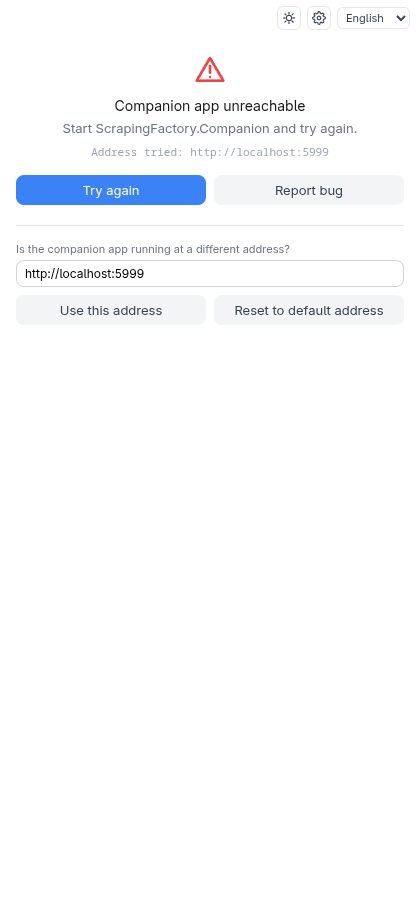
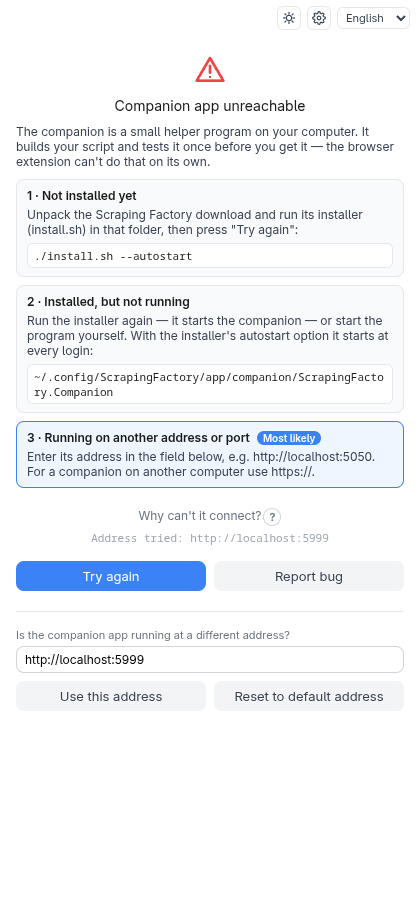
docs(ui): document the companion guidance and refresh the troubleshooting page (#406)

diff --git a/CLAUDE.md b/CLAUDE.md
@@ -76,6 +76,7 @@ docs/
 - **Visual design refresh: design tokens, icons, interaction consistency** (Issue #139): a purely visual pass over `popup/popup.html`'s CSS — no information-architecture/flow change. A `:root` block of CSS custom properties (`--color-*`, `--radius-*`, `--shadow-*`/`--overlay-*`, `--focus-ring`, `--transition-fast`) replaces ~90 one-off hex/rgba/border-radius literals that had been scattered through the file with no shared source of truth, migrated value-for-value (verified pixel-identical via before/after screenshots) with one deliberate exception: the success-icon's `#22c55e` and the pre-existing `#16a34a` (already used for robots-allowed/toast-info) are two near-identical greens with no reason to differ, so they now share one `--color-success` token. This is also the direct prerequisite for a future dark-mode pass — a `[data-theme="dark"]` block would only need to redefine these tokens, not every rule using them. The two literal Unicode status glyphs (`⚠`/`✓`) are now small hand-drawn inline SVGs (no icon font/CDN, per the "free plugin" principle), sized/colored via the token set. The three independent tree-toggle implementations (`container-tree-ui.js`'s group tree, `api-config-ui.js`'s API tree, `popup.js`'s DOM tree view) — each of which swapped between two different Unicode glyphs (`▸`/`▾`) via `textContent` on every click — now each insert one static chevron SVG per row and toggle a `.collapsed` class instead, with the actual rotation (`transform: rotate(-90deg)`) handled once in shared CSS rather than duplicated per-file click-handler logic; the DOM tree view keeps its "starts collapsed" default (unlike the group/api trees, which start expanded) by applying `.collapsed` at build time. Finally, hover/active/transition treatment is unified: the shared `button{}` base rule now transitions multiple properties via `--transition-fast` (was: `background .1s` only) and every button gets a uniform `:active` press feedback (`translateY(1px)`) — `.mode-btn`/`.btn-toggle` inherit both for free since they're plain `<button>`s; inactive `.mode-btn` tabs and the three tree-row types (`.group-tree-row`/`.api-tree-row`/`.body-tree-row`, previously with zero interactive feedback) gained a hover state; text inputs/textareas/selects share one focus-transition rule. Deliberately out of scope: turning "Remove"/"+ Add"-style text-label buttons into icon+label, which would be a much larger pass and risks breaking existing `.textContent` assertions in `popup.test.js`.
 - **Dark mode + visual modernization pass** (Issue #140): builds directly on #139's token groundwork — every color/overlay/shadow token now lives in a light/dark pair instead of one fixed set. `:root` carries the light defaults; `@media (prefers-color-scheme: dark) { :root:not([data-theme]) { ... } }` redefines them automatically when the OS prefers dark and the user hasn't made an explicit choice; an explicit `html[data-theme="light"|"dark"]` override (see `shared/theme.js` below) always wins over both, and needs no rule of its own for "light" specifically since the media query already stays out of its way when the attribute is present. `color-scheme: light dark` on `:root` (narrowed to a single value by the two explicit-override rules) gives native form controls — checkbox/select-popup chrome, and any `input`/`textarea` with no explicit background of its own, like `#input-additional-urls` — a correct dark rendering for free. **Contrast audit** (called for by the issue): every status color already read from #139's token set, so brightening them for dark backgrounds was enough — no per-rule changes needed for `.robots-txt-allowed`/`.preview-summary.warn`/toast variants/etc. One real bug the audit *did* catch: several "white text on a colored background" rules (`.btn-primary`, `.toast`, picked chips) used `var(--color-surface)` for that text color — correct by coincidence in light mode (surface happens to be white) but flips to near-black in dark mode. A new theme-agnostic `--color-on-accent` token (always a light color regardless of theme, since the accent backgrounds themselves stay readable with light text in both) replaces `--color-surface` at every one of those call sites. **Manual toggle**: a new `extension/shared/theme.js` mirrors `i18n.js`'s `getStoredLanguage`/`setLanguage` pattern exactly (`chrome.storage.local`), with one difference — "follow the OS" is a real third state, represented as `null` (not a storable `'system'` string) throughout the module. `#theme-toggle` next to the language selector cycles system → light → dark → system on click (`SFTheme.cycleTheme`), a single compact icon button chosen over a dropdown for lack of panel-width room next to the existing language `<select>`. **Modernization** (requested alongside the issue, not part of its own scope): the radius scale is nudged up again (6/8/10/14, from #139's 4/6/8/10) for a softer feel; `--transition-fast` switches from a plain linear ease to the "standard" `cubic-bezier(0.4, 0, 0.2, 1)` easing curve; a new `--glow-primary` gives `.btn-primary:hover` a soft colored glow instead of a flat color swap; the old flat `--shadow-sm`/`--shadow-md` pair is replaced by a graded `--elevation-1/2/3` scale (layered shadow pairs) for more "floating" depth on the mode-toggle active pill and modal; the `.mode-toggle`/`.mode-btn` segmented controls (mode/engine/notify-method — three markup instances) gain an animated sliding `.mode-toggle-thumb` behind the active button instead of each button just recoloring itself in place, positioned via `popup.js`'s `syncModeToggleThumbs()` (JS, not CSS-only, since it depends on the active button's actual rendered offset/width) — called at the end of every `render()` and on a rAF-throttled `window.resize` listener, since the side panel is user-resizable; `.engine-section`/`.output-settings` get an outlined "card" (border only, no fill, since their own children already use `--color-surface-subtle`) to break up the idle screen's otherwise undifferentiated list of settings — the mode-specific sections are deliberately left unboxed since they're the primary content being edited and already carry their own row-level visual treatment; every scrollable container from #138/#122 gets a slim `::-webkit-scrollbar` (Chromium-only, matching the extension's own supported browser range). Deliberately out of scope, same reasoning as #139: turning text-label buttons into icon+label.
 - **esbuild bundling; "Load unpacked" points at `extension/dist/`** (Issue #389): the extension is no longer loaded straight from its source folder. `extension/build.js` (`npm run build`, `npm run build:watch`, plus `--channel release` and `--outdir <dir>` for `install/build-bundle.sh`) bundles four entry points — `popup/popup.js` (side panel), `content/content-script.js` (isolated world, every frame; `shared/logger.js` is bundled in, so the manifest no longer lists it), `content/api-capture.js` (the `"world": "MAIN"` recorder, `document_start`) and `background/service-worker.js` — as `iife` for Chromium 114+ into `dist/<same relative path>`, source maps beside them, and copies the static files (`manifest.json`, `popup/popup.html`, `popup/popup.css`, `popup/screens/*.html`) to the same relative paths, so `chrome.runtime.getURL('popup/screens/idle.html')` and the manifest paths are unchanged. `dist/` is git-ignored; Jest, `tsc` and the e2e harness treat it as build output (`modulePathIgnorePatterns`, `exclude`). **What the bundler replaced:** every module used to carry dual-environment boilerplate so the same file ran as a classic `<script>` (shared global scope) and under Jest (CommonJS) — an IIFE assigning one `self.SFXxx` global, a `typeof require !== 'undefined' ? require(...) : self.SFXxx` shim per import, a `typeof module`/`self` export footer, a 56-line `<script>` list in `popup.html`, and `classic-script-loading.test.js` guarding the top-level-name-collision bug class that came with it. All of that is gone: a module is now plain CommonJS (`const { x } = require('./y')`, `module.exports = { ... }`), `popup.html` has one `<script src="popup.js">`, and Jest keeps running the sources directly. No behavior change. **The three explicit replacements for what used to be environment sniffing:** `i18n/i18n.js` `require`s the three dictionaries statically (inlined into the popup bundle, loaded identically in Jest — no fetch, no `chrome.runtime.getURL`); `popup.js`'s `loadScreenPartial` and `content/api-capture.js`'s fetch/XHR patching check `process.env.NODE_ENV === 'test'` (Jest sets it, the build `define`s it to `"production"`, so the code is dead-branch-free in the bundle and `process` never exists at runtime — never reference `process` for anything else). **Release channel** (Issue #352): `shared/build-config.js` derives `CHANNEL` from `process.env.SF_CHANNEL`, which `build.js` always `define`s (`"development"` by default, `"release"` for `--channel release`); `install/build-bundle.sh` builds the release channel into a temp dir (`npm ci` + `node build.js --channel release --outdir …`, then ships the bundle without `.map` files) instead of `sed`-rewriting a source line, and `build.js` fails the build if a release build did not actually produce the release constant. `shared/companion-url-policy.test.js` builds the real module with each channel to prove it. **Consequences for contributors:** after editing extension code run `npm run build` (or leave `build:watch` running) and reload the extension at `chrome://extensions`; there are no page-level globals any more (`self.SFXxx`, `SFTheme`, a popup's `_state`) — a real-browser check that needs to reach into the popup must go through the DOM, `chrome.storage` or Playwright routes, not `page.evaluate(() => SFFoo…)`; a new module needs no `popup.html` edit, just a `require`. TypeScript conversion stays a separate, file-by-file follow-up.
+- **Companion-unreachable guidance** (Issue #406): the `COMPANION_ERROR` screen used to say only "Start ScrapingFactory.Companion and try again" — nothing about what the companion is, where it comes from or what to do for which situation (UX audit finding 19). It now has two forms, switched by whether a companion has *ever* answered on this browser: until the first successful health check (flag `companionReached`, `chrome.storage.local`, written by `checkCompanion` via `markCompanionReached()`, loaded at the start of every check) the **long form** (`#error-guidance-long`) explains the companion in a sentence and lists the three situations — "1 · Not installed yet" (the installer name and exact command for this OS: `install.sh --autostart` / `powershell … install.ps1 -Autostart`, the same as `install/INSTALL.md`), "2 · Installed, but not running" (run the installer again — it starts the companion — or start the program from where the installers put it: `~/.config/ScrapingFactory/app/companion/ScrapingFactory.Companion`, `~/Library/Application Support/…` on macOS, `%APPDATA%\ScrapingFactory\app\companion\ScrapingFactory.Companion.exe`), "3 · Running on another address or port" (the existing address field; `https://` for another computer); afterwards only the one-line hint (`#error-hint-short`). "Once" is read as *until the companion has been reached*, not "only the first time the screen is shown", so someone who closes and reopens the panel before installing keeps the help. Both forms keep a **"Why can't it connect?"** `help.companionError.causes` popover (a #396 help host) listing the four usual causes with their fix (not started, other port/computer, https needed — the #352 address policy —, a shared companion may want an access key); the help component gained one rule for it: a `\n` in a help text starts a new line (`white-space: pre-line`). **Most likely**: `likelySituations({url, defaultUrl, errorMessage})` marks situation 3 for a custom address or an HTTP error answer (something other than a healthy companion is there) and 1+2 for the default address that didn't answer at all; `checkCompanion` keeps the last failure for it (`getCompanionFailure()`, cleared on success). Texts carrying a parameter (the installer name) are set by script, not `data-i18n` (`applyStaticTranslations` passes no parameters); the OS comes from `navigator.userAgent` (`detectPlatform`, anything but Windows/macOS gets the shell instructions). New modules per Architecture Decision #12/#13: `popup/companion-guidance.js` (pure logic + the flag; no `@ts-check` since it touches `chrome.storage`) and `popup/companion-guidance-ui.js` (`renderCompanionGuidance()`, called from `popup.js`'s `render()` right after `renderCompanionErrorScreen()`; it requires `companion-client.js`, never the other way round). Covered by `companion-guidance.test.js`, `companion-guidance-ui.test.js` (against the real `popup.html` markup) and `e2e/examples/issue-406-companion-guidance-check.js` (no companion running; long form + OS command + the likely mark, popover with mouse/keyboard, de/es, the custom-address flow reaching a real companion and ending the first-run state, the short form afterwards, 280/320/400 px).
 - **Help popover, "Advanced" disclosure and help-text conventions** (Issue #396): the shared building blocks for explaining a field *at the field* instead of in a long hint paragraph or a hover-only tooltip (13 of the `…Hint` strings were over 250 characters; a `title` attribute is invisible on touch/keyboard and easy to miss in a side panel). **Help popover**: a screen declares one in HTML as `<span class="help-host" data-help="help.<area>.<field>"></span>` (placed next to a label, typically inside the toggle's `<label>`; for DOM built in JS, `helpHostHtml(key)`) — no per-field JS. `popup/help-popover.js` is the pure half (`isValidHelpKey`, `getHelpEntry(t, key)` → `{text, example}`, `collectHelpKeysFromHtml`/`collectHelpEntries`, `helpEntryProblems`/`helpEntryLengthWarnings`, `nextOpenHelpId`); `popup/help-popover-ui.js` renders it: `initHelpPopovers()` (idempotent; called from `popup.js`'s `applyStaticTranslations`, so it runs after the screen partials are in the DOM and again on every language change — an open panel stays open and re-translates) appends a "?" `<button class="help-btn">` to each host and inserts a hidden `<div class="help-popover" role="note">` panel right after the host's closest `[data-help-anchor]`, else its closest `<label>`, else the host. The panel is an **in-flow block, not a floating overlay** — in a 280 px side panel that is the one placement that can never run off-screen. `wireHelpPopoverEvents()` (once, delegated on `document`): click toggles, a click elsewhere closes, **Escape** closes and returns focus to the button, only one popover is open at a time; Enter/Space come from the native button. `aria-expanded` + `aria-controls` + `aria-describedby` on the button, `aria-label`/`title` from `common.helpBtn`. The button `preventDefault`s its click, because a host inside a checkbox `<label>` would otherwise toggle the checkbox. Colors come from the theme tokens, so light/dark need no rules of their own. **"Advanced" disclosure**: `<details class="advanced-disclosure" data-advanced="<section id>"><summary data-i18n="common.advanced">…</summary>…</details>` (or `createAdvancedDisclosure(id)` in JS) tucks rarely needed options away; collapsed by default, and whether a section was opened is remembered **per section id** in `chrome.storage.local` (`advancedSections`, only opened sections are stored; `advanced-disclosure.js` pure logic + storage, `advanced-disclosure-ui.js` applies it via `initAdvancedDisclosures()` from `init()` and persists changes via a capture-phase `toggle` listener, since `toggle` does not bubble). There is deliberately no global advanced mode, and no existing option was moved into one by #396 — later UX issues do that. **i18n conventions**: help texts live under `help.<area>.<field>.text` (required) and `.example` (optional), camelCase segments, in `de`, `en` and `es`. Guideline: at most 2–3 short sentences — what the option is and what a user must know before touching it, no jargon without a gloss; the example is one line of what to type, rendered in code style; texts that change what a user must do (warnings, limits, errors) stay in the UI proper; longer explanations and worked examples belong in `docs/user/` (#354), so keep help texts short enough not to need rewording when "Learn more" links to the bundled docs arrive. `i18n/help-i18n.test.js` (runs in `npx jest`) reads every `data-help` key from `popup.html` and `screens/*.html` and fails when a referenced key is missing in any language, when a `help.*` entry exists in one language but not all three, when an entry has no `text` / an unknown property / a key that is not `help.<area>.<field>`, or when a host sits in an HTML file the loader never fetches; a deliberately-broken-input suite proves it catches each case. Over-long texts (`HELP_TEXT_MAX_CHARS` 320, examples 120) only `console.warn` — a soft limit. Reference conversions: `idle.requestHeadersHint` → `help.requestHeaders.headers`, `idle.appendOutputHint` → `help.appendOutput.append` (the long `<p class="preview-summary">` paragraphs are gone); the hover-only engine tooltip is left to the issue that owns it. Covered by `help-popover.test.js`, `help-popover-ui.test.js`, `advanced-disclosure.test.js`, `help-i18n.test.js` and the real-browser check `e2e/examples/issue-396-help-popover-check.js` (mouse, Tab/Enter/Space/Escape, one-at-a-time, no horizontal overflow added at 280/320/400 px — the panel's own pre-existing 44 px at 280 px is not this feature's —, German + dark theme, the disclosure remembered across a reload).
 - The popup/side panel (`extension/popup/popup.js`) supports three strictly separate modes: "Fields (flat)" (the original mode), "Containers (nested)" and "API" — switching modes clears the configuration of the other two modes (`switchMode`/`MODE_SWITCH_CLEARS`). The container tree is rendered as an editable tree following the same visual pattern as the DOM tree view (`renderGroupTree`/`buildGroupTreeNodeEl` in `popup/container-tree-ui.js`, mirroring `renderDomTree`/`buildTreeNodeEl` in `popup.js`); creating a container asks for name/type **before** the click-based element selection (`modal-container-new`), while creating a data field asks (as in flat mode) **after** the click-based selection (`modal-field-extended`, with a field-type dropdown: Text/Attribute/Exists?/OwnText — see Issue #169 below)
 - **Container mode: download embedded resources** (Issue #213): a "Download this resource (e.g. an image) and save it locally" checkbox (`#toggle-field-download`) sits inside `modal-field-extended`'s existing `#field-attribute-row`, so it's shown/hidden by the exact same `select-field-mode`-driven visibility toggle the attribute-name input already uses — no separate wiring needed. `buildFieldNode`/`serializeGroupTree` (`container-tree.js`) and `deserializeGroupTree` (`config-import.js`) gain a `download` property/wire key, gated on `mode === 'attribute'` the same defensive way `attribute` itself already is (forced `false` for any other mode, regardless of what a caller/the wire happens to carry); omitted from the wire entirely when `false`, the same "incomplete/off = key omitted" convention `framePath`/`transforms` already use. The one real CSS wrinkle this surfaced: `#toggle-field-download` was the first checkbox ever placed inside a `.modal-inner` — the existing generic `.modal-inner input`/`.modal-inner label` rules (sized for text inputs, higher specificity than `.output-settings-toggle` alone) stretched it into a full-width bar and forced its label onto its own line; `popup.css` now excludes a checkbox toggle from both rules so `.output-settings-toggle`'s own flex-row layout applies unchanged, caught via a real-browser check with the `browser-test` Claude Code skill (Issue #180) before it shipped. **Follow-up, prompted directly by this issue's own download checkbox**: the attribute-name field next to it — previously a free-text `<input>`, `#select-field-attribute` unchanged in name but no longer in kind — is now a `<select>` populated with the clicked element's own actual attributes (`populateAttributeSelect` in `container-tree-ui.js`, one `"name: value preview"` option per attribute, reusing `pendingElementAttributes` already collected for Issue #143's live transform preview) rather than a field the user has to type an HTML attribute name into blind — per this project's own "no programming knowledge" target audience (`CLAUDE.md`'s "Project Overview"), that free-text field had always been a latent gap, just one Attribute mode itself hadn't previously made urgent enough to fix. `guessUrlAttribute` (`container-tree.js`) pre-selects whichever attribute looks most like a downloadable resource URL — `src` first, then common lazy-load `data-*` conventions (the real URL often sits there while `src` holds a placeholder/`data:` URI), then `href`, scored by whether the value contains a slash or a recognizable resource extension (image/video/audio/PDF) — but every attribute stays listed and pickable regardless of the guess, so a wrong guess costs one click to correct rather than being a dead end. `confirmExtendedField`/`refreshExtendedTransformPreview`'s own `.value` reads are unchanged, since `<select>.value` behaves identically to `<input>.value` for this purpose.

diff --git a/docs/ARCHITECTURE.md b/docs/ARCHITECTURE.md
@@ -550,6 +550,24 @@ port or even a different host than the browser.
 - Companion: `ScrapingFactory.Companion/CompanionHostOptions.cs`,
   `CompanionBackendOverrides.cs`, `Program.cs` (`builder.WebHost.UseUrls(...)`)
 
+### 2.10a Companion-unreachable guidance (Issue #406)
+
+What the `COMPANION_ERROR` screen tells a user who has no working companion: a
+plain-language explanation and the three situations (not installed / installed but
+not running / another address or port) with the concrete next step for the user's
+OS — in full until a companion has answered once on this browser
+(`chrome.storage.local` `companionReached`), as a one-line hint afterwards — plus a
+"Why can't it connect?" help popover. See CLAUDE.md for the behavior details.
+
+- Extension: `popup/companion-guidance.js` (OS detection, installer commands/paths,
+  `likelySituations`, the persisted flag), `popup/companion-guidance-ui.js`
+  (`renderCompanionGuidance`, called from `popup.js`'s `render()`),
+  `popup/companion-client.js` (`checkCompanion` loads/sets the flag and keeps the last
+  failure for `getCompanionFailure()`), `#screen-error` in `popup/popup.html`,
+  `error.*`/`help.companionError.*` in `i18n/*.json`
+- Tests: `popup/companion-guidance.test.js`, `popup/companion-guidance-ui.test.js`,
+  real-browser check `e2e/examples/issue-406-companion-guidance-check.js`
+
 ### 2.11 i18n (extension UI language)
 
 Lets the user pick the popup's own display language (German/English/Spanish)

diff --git a/docs/user/troubleshooting.md b/docs/user/troubleshooting.md
@@ -4,7 +4,12 @@
 
 ![The companion-unreachable screen](images/troubleshooting-companion-unreachable.png)
 
-The extension can't reach the companion. In order:
+The extension can't reach the companion. Until a companion has answered once on
+this browser, the screen explains what it is and shows the three usual situations,
+each with its next step (the installer command and program path are the ones for
+your operating system); the situation that fits the failure best is marked
+**Most likely**. Afterwards only a one-line hint is shown — the **?** next to
+**Why can't it connect?** lists the usual causes in either case. In order:
 
 1. Is the companion running? Open <http://localhost:5000/health> — you should
    see JSON. If not, start it (the installer's `--autostart` does this at login),
